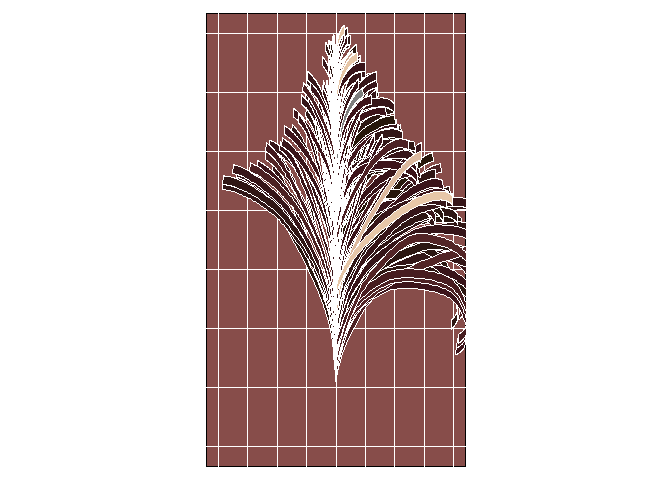
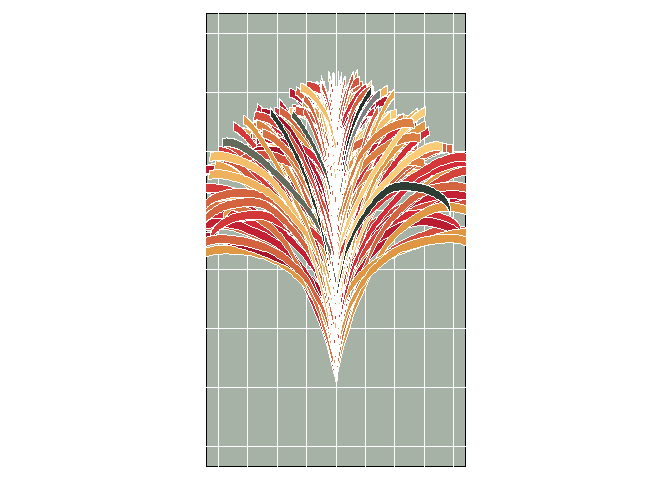
Edited main README.Rmd

diff --git a/2022-01-10_Generative-music/README.md b/2022-01-10_Generative-music/README.md
@@ -6,14 +6,11 @@
 <!-- badges: start -->
 <!-- badges: end -->
 
-For today’s prompt I use [Pierre
-Casadebaig’s](https://github.com/picasa) package
-[`generate`](https://github.com/picasa/generate). As explained
-[here](https://github.com/picasa/generative_examples/blob/master/R/sequence_collatz.rmd#L25),
-vegetation-like shapes can be obtained by defining a curve that maps a
-sequence of integers to segment lengths, changing the angle between
-segments by some pre-determined amount. Nodes are made of multiple
-curves, and stems are made of multiple nodes.
+Having never worked with sound before the best that I could do was use
+the notes of Bach’s [Crab
+Canon](https://www.youtube.com/watch?v=36ykl2tJwZM) to choose the colors
+of the leaves of yesterday’s
+[plants](https://github.com/paezha/genuary2023/tree/master/2022-01-09_Plants).
 
 For this piece I use the following packages:
 
@@ -96,7 +93,7 @@ col_palette_name <- sample(c("Alacena", "Atentado", "Aurora", "Concha", "Frida",
 col_palette <- mex.brewer(col_palette_name)
 ```
 
-Generate random numbers for coloring the leaves:
+Use the notes of the Canon to color the leaves:
 
 ``` r
 # Create random variable to add colors
@@ -143,4 +140,4 @@ ggsave(filename = glue::glue("outputs/crab-plant-{seed}.png"),
        width = 4)
 ```
 
-<img src="outputs/crab-plant-407381582.png" width="500px" />
+<img src="outputs/crab-plant-973848443.png" width="500px" />

diff --git a/README.md b/README.md
@@ -65,9 +65,16 @@ Colorful signed distance functions of three split regular polygons.
 
 <img src="2022-01-08_Signed-Distance-Functions/outputs/sdf-88696514.png" width="500px" />
 
-## Day 8: [Plants](https://github.com/paezha/genuary2023/tree/master/2022-01-09_Plants)
+## Day 9: [Plants](https://github.com/paezha/genuary2023/tree/master/2022-01-09_Plants)
 
 [Pierre Casadebaig’s](https://casadebaig.netlify.app/) system for
 generative plants.
 
 <img src="2022-01-09_Plants/outputs/plant-24912549.png" width="500px" />
+
+## Day 10: [Generative music](https://github.com/paezha/genuary2023/tree/master/2022-01-10_Generative-music)
+
+The colors of the leaves are chosen based on the notes of Bach’s [Crab
+Canon](https://www.youtube.com/watch?v=36ykl2tJwZM)
+
+<img src="2022-01-10_Generative-music/outputs/crab-plant-775875665.png" width="500px" />
